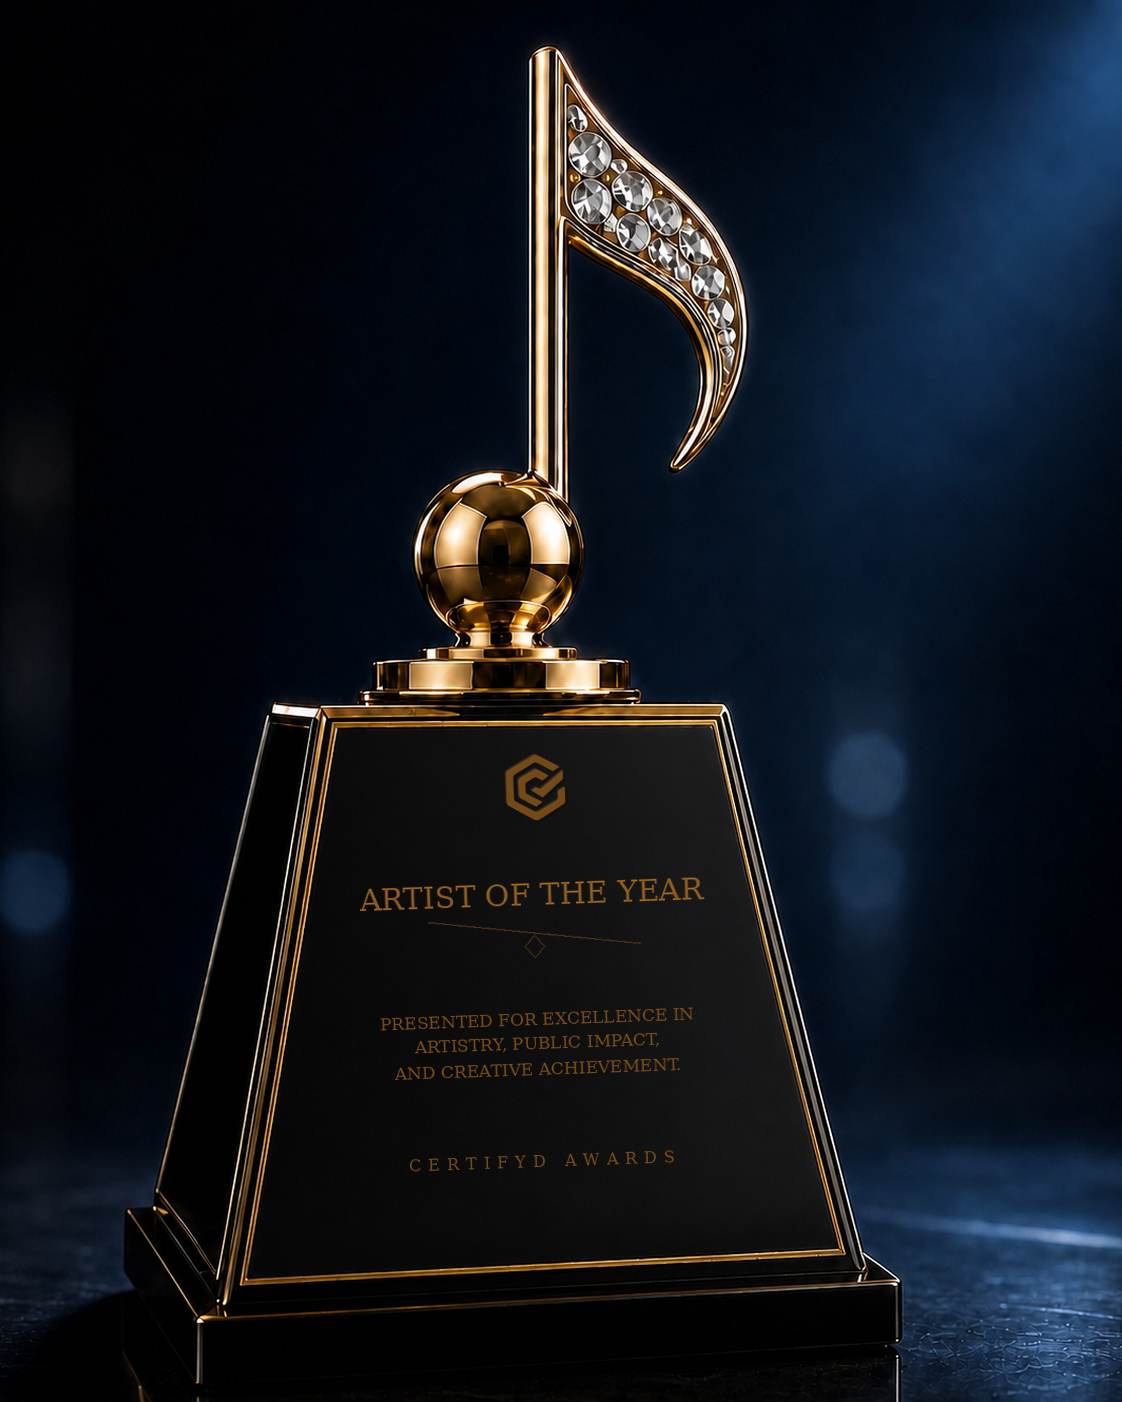
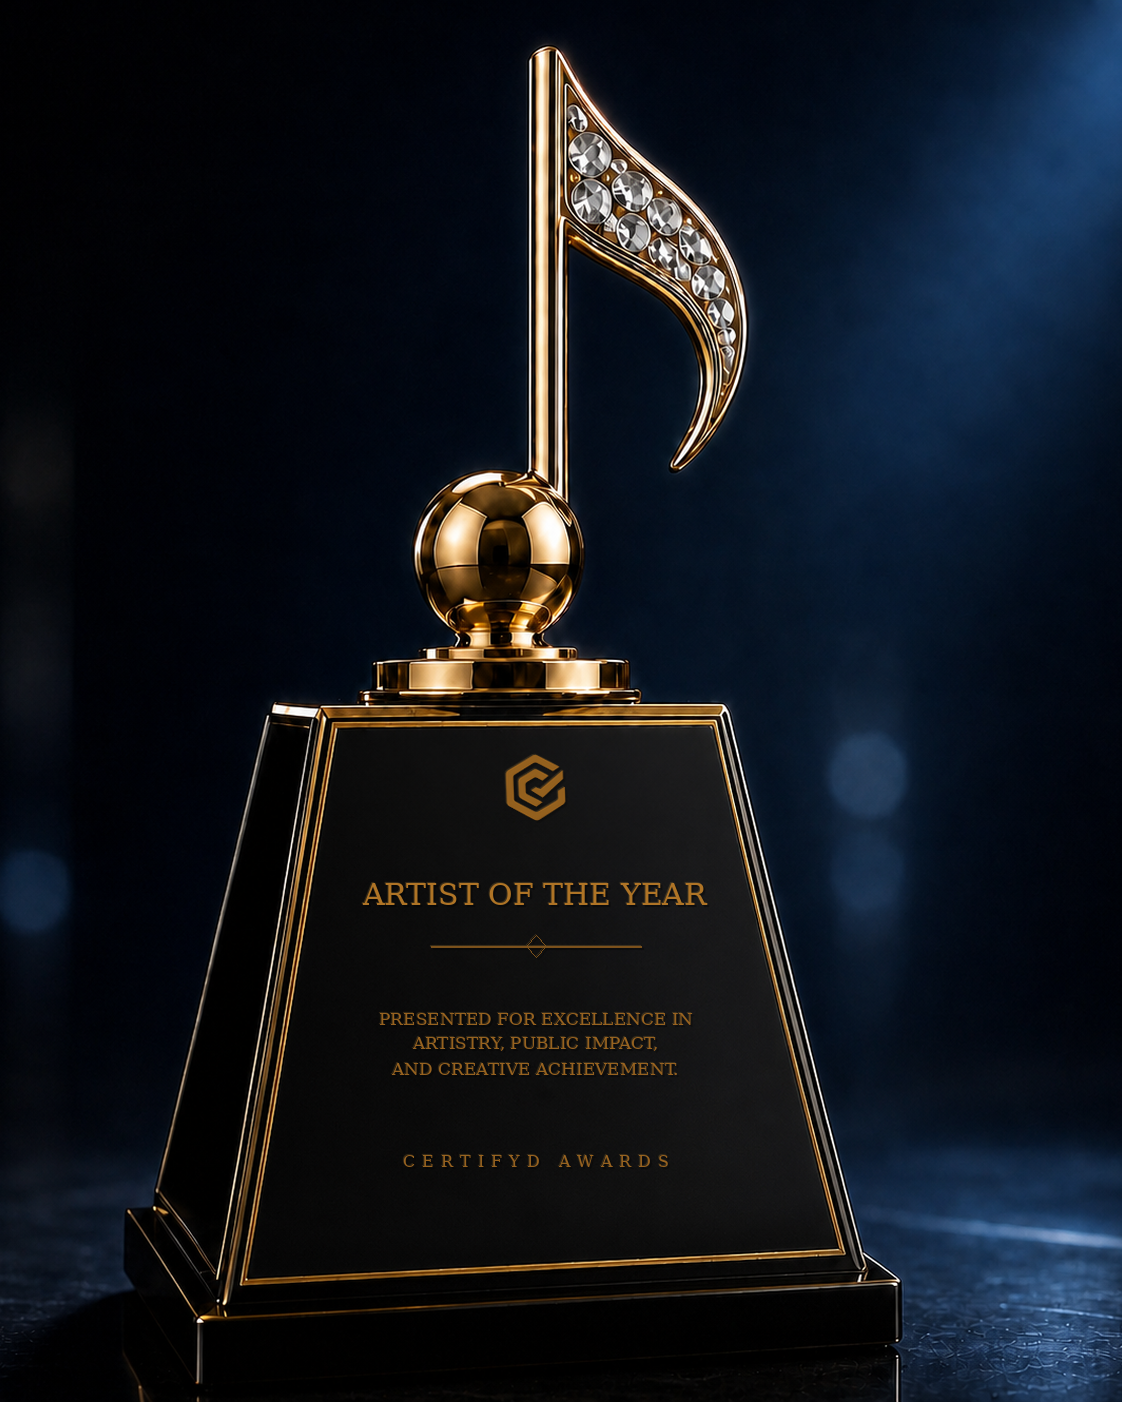
Refine hero trophy engraving

Changed region(s): [[0.3431, 0.7054, 0.6239, 0.7668], [0.3119, 0.6134, 0.6239, 0.6748], [0.4367, 0.5214, 0.4991, 0.5827]]

diff --git a/src/routes/Home.tsx b/src/routes/Home.tsx
@@ -101,7 +101,7 @@ export function Home() {
           </div>
         </div>
         <aside className="hero-award-visual" aria-hidden="true">
-          <img src="/media/certifyd-awards-modern-trophy.png?v=20260717-fixed-logo-v2" alt="" />
+          <img src="/media/certifyd-awards-modern-trophy.png?v=20260717-fixed-logo-v3" alt="" />
         </aside>
         <div className="hero-proof-strip" aria-label="Certifyd Awards values">
           <div><span aria-hidden="true">⬡</span><strong>Verified Excellence</strong><small>Work backed by proof</small></div>
@@ -176,7 +176,7 @@ export function Home() {
           </div>
         </div>
         <figure className="founders-home-visual" aria-label={foundersAward.name}>
-          <img src="/media/certifyd-awards-modern-trophy.png?v=20260717-fixed-logo-v2" alt="Certifyd Awards gold music note trophy" />
+          <img src="/media/certifyd-awards-modern-trophy.png?v=20260717-fixed-logo-v3" alt="Certifyd Awards gold music note trophy" />
         </figure>
       </section>
 

diff --git a/src/routes/FoundersAward.tsx b/src/routes/FoundersAward.tsx
@@ -61,7 +61,7 @@ export function FoundersAward() {
           </div>
         </div>
         <figure className="founders-hero-visual">
-          <img src="/media/certifyd-awards-modern-trophy.png?v=20260717-fixed-logo-v2" alt="Certifyd Awards gold music note trophy" />
+          <img src="/media/certifyd-awards-modern-trophy.png?v=20260717-fixed-logo-v3" alt="Certifyd Awards gold music note trophy" />
         </figure>
       </section>
 